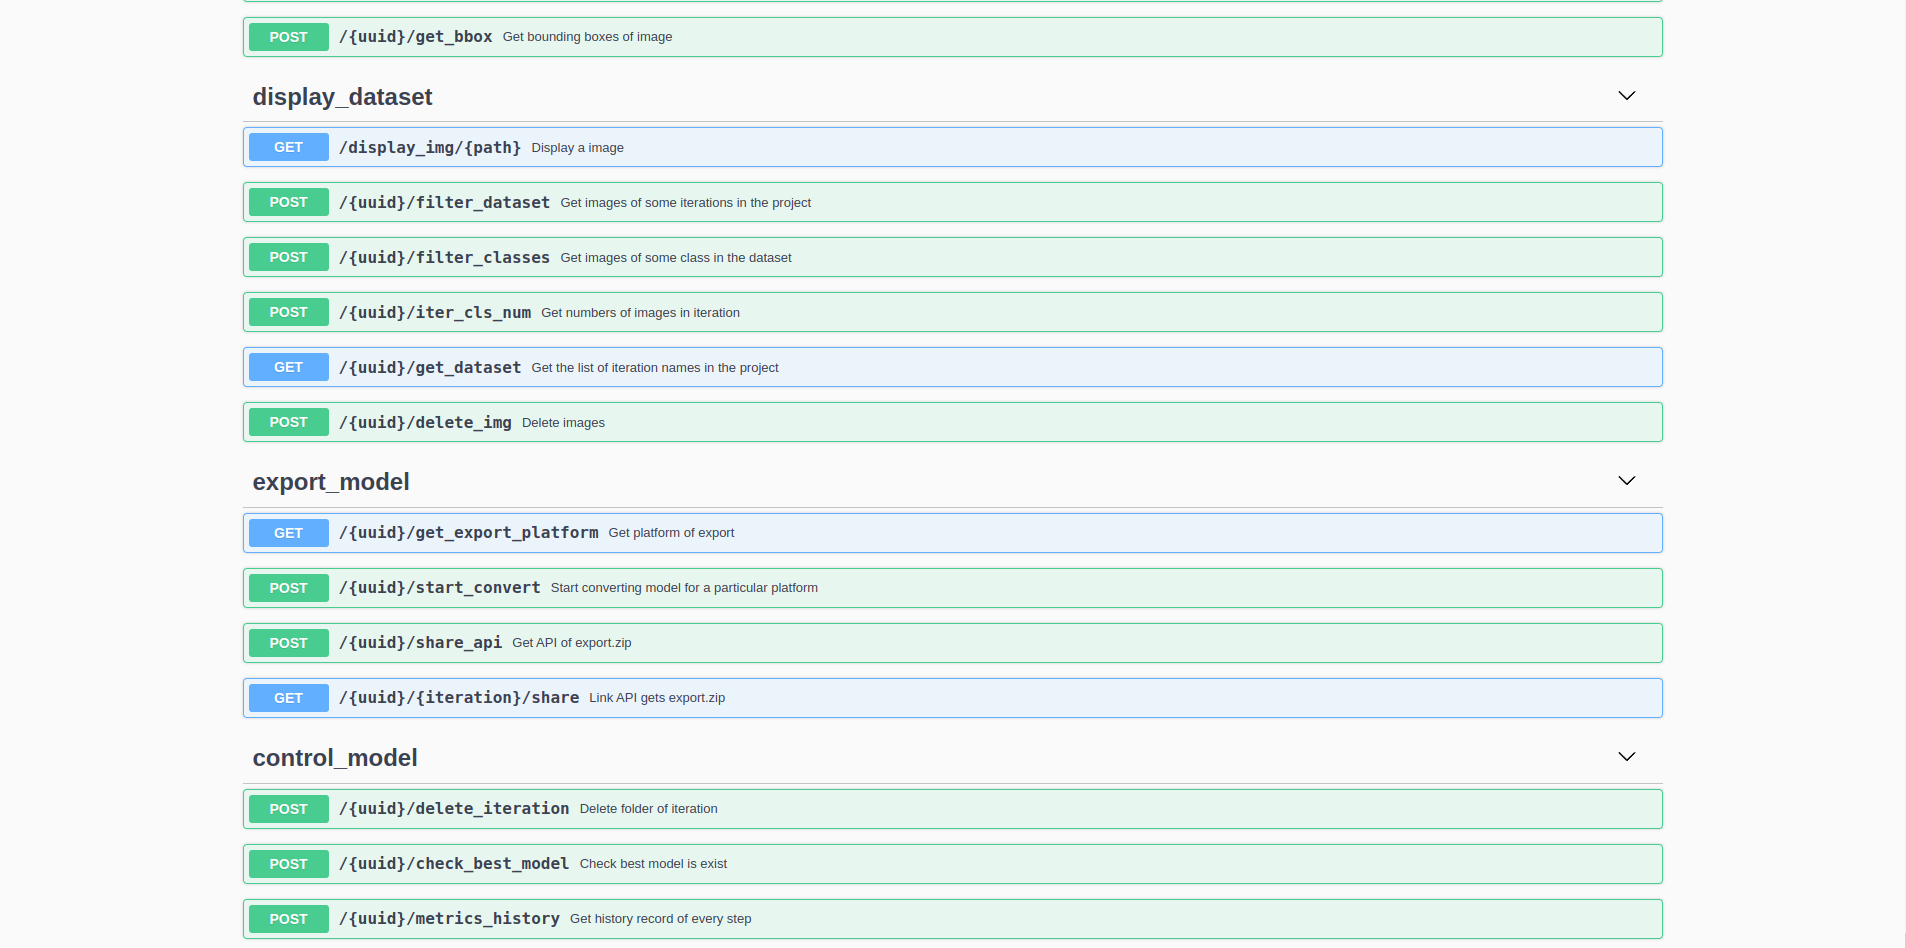
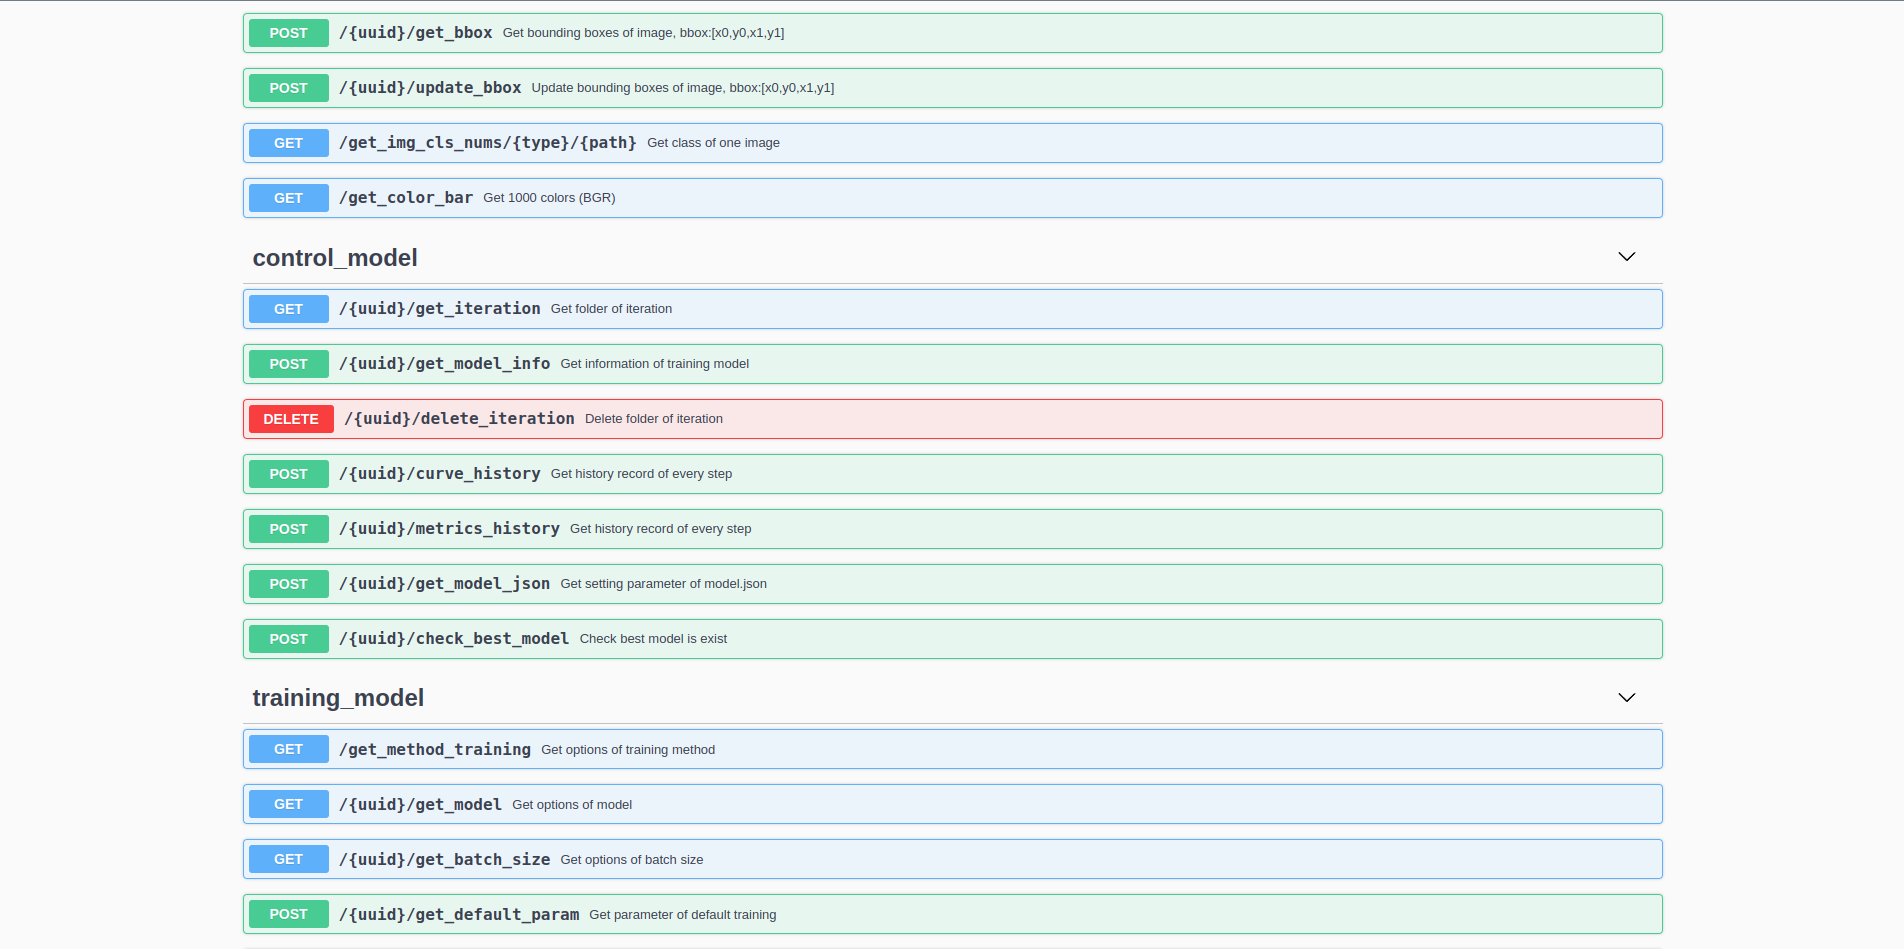
docs: added images of swagger

Changed region(s): [[0.1239, 0.0, 0.8676, 1.0]]

diff --git a/webapi/ReadME.md b/webapi/ReadME.md
@@ -19,5 +19,6 @@ We recommand Postman to test your web api , you could see more detail in {IP Add
         <img width="80%" height="100%" src="docs/apidocs-2.png">
         <img width="80%" height="100%" src="docs/apidocs-3.png">
         <img width="80%" height="100%" src="docs/apidocs-4.png">
+        <img width="80%" height="100%" src="docs/apidocs-5.png">
     </div>
 </details>

diff --git a/README.md b/README.md
@@ -1,5 +1,9 @@
 # iVIT-T
 
+<div align="center">
+  <img width="100%" height="100%" src="docs/thumbnail_iVIT-T Logo.png">
+</div>
+
 A library to training model of TensorFlow-Keras and Darknet. This library enables the training of the model of classification, object detection.
 * [See What's New](#see-whats-new)
 * [Pre-requirements](#pre-requirements)
